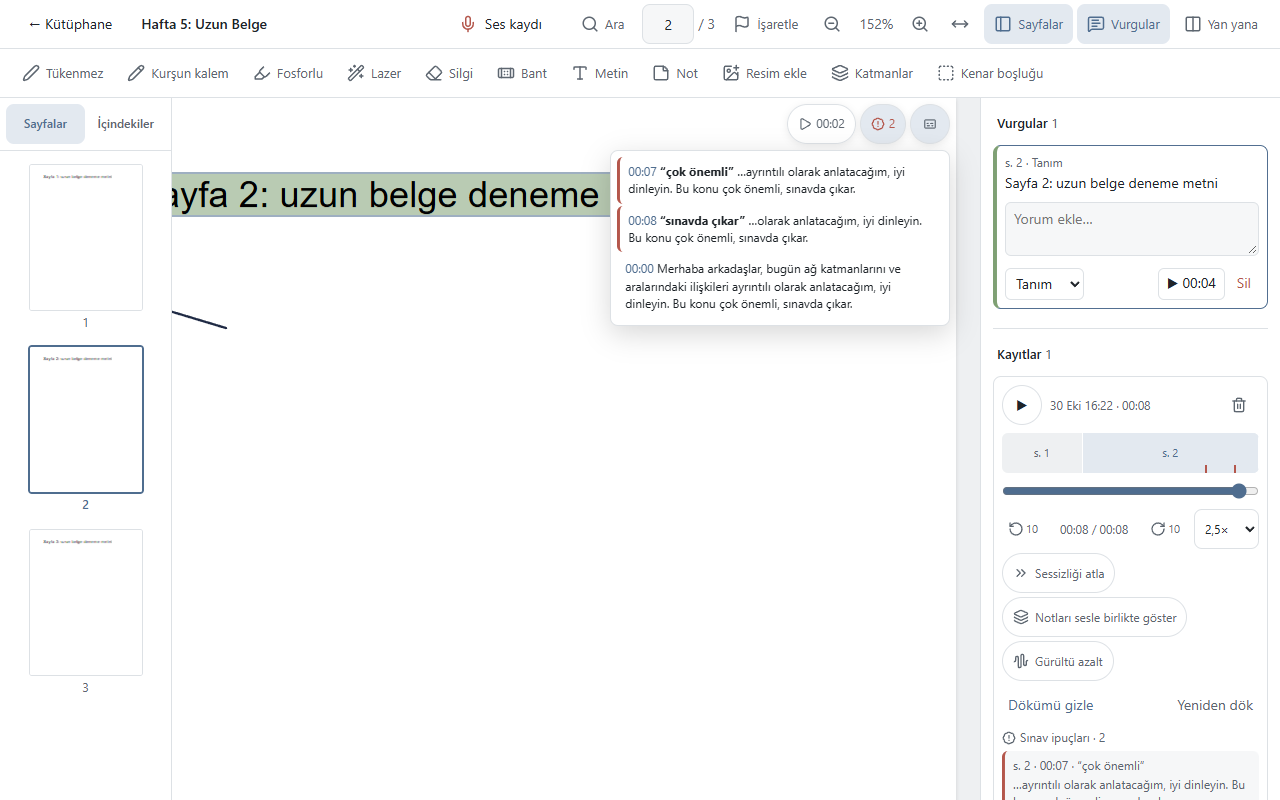
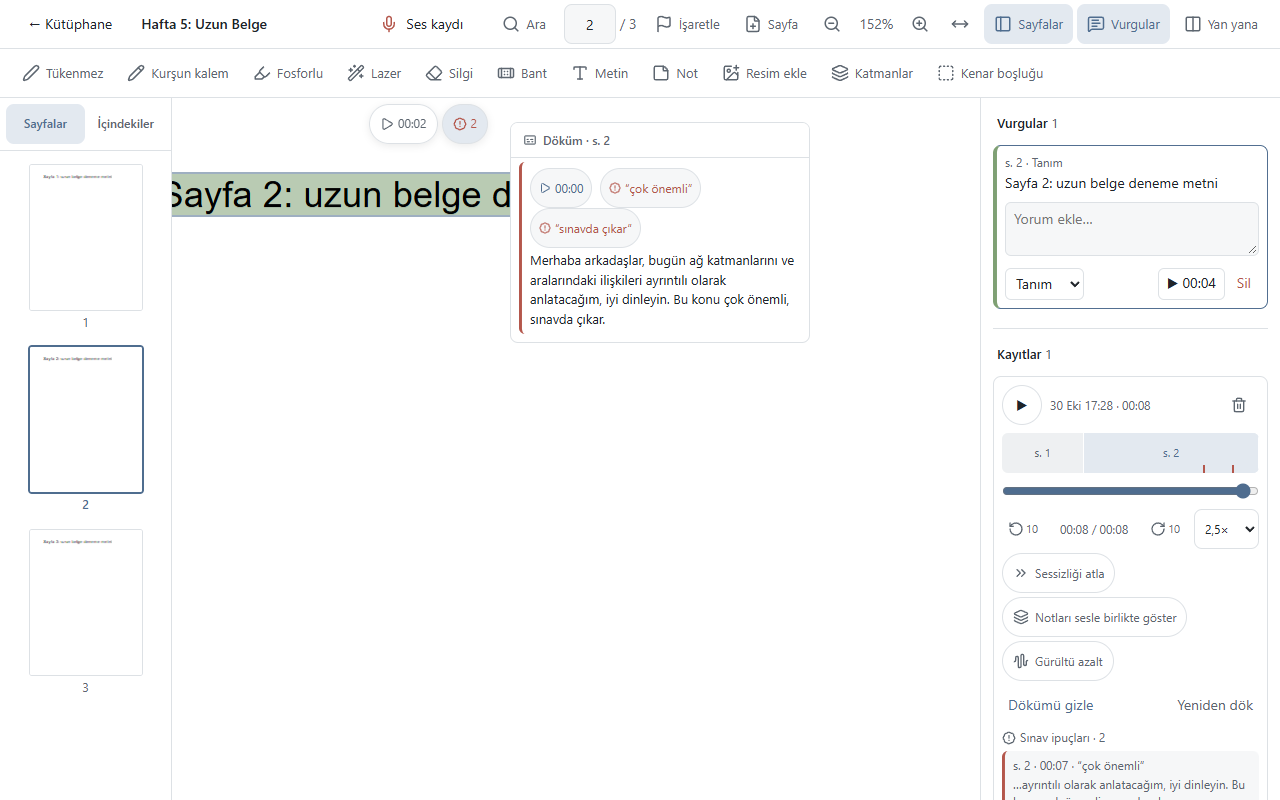
test(pages): e2e-pages (phone, tablet, desktop), e2e-audio uses the transcript block

diff --git a/src/ui/views/ReaderView.svelte b/src/ui/views/ReaderView.svelte
@@ -77,7 +77,7 @@
   const pageFlags = $derived(PageFlags.for(lib, doc.id));
   const importantCount = $derived(slots.filter((s) => pageFlags.on(s.key).includes("important")).length);
   /** Transcript beside the page when there is room for a 300 px column; otherwise under it. */
-  const sideTranscript = $derived(scrollerW >= 900);
+  const sideTranscript = $derived(scrollerW >= 760);
   const transcriptColumn = $derived(sideTranscript && reader.lecture.hasTranscripts && reader.lecture.transcriptBeside);
   /** Size in PDF points of a PDF page or a blank page. */
   const sizeOf = (key: number): { w: number; h: number } =>
@@ -354,7 +354,7 @@
         <span class="pages sr" aria-hidden="true">{currentLabel} / {sizes.length || "–"}</span>
         <input class="page-input" type="text" inputmode="numeric" enterkeyhint="go" aria-label="Sayfa numarası" value={currentLabel}
           onchange={jumpBox} onkeydown={(e) => e.key === "Enter" && e.currentTarget.blur()} onfocus={(e) => e.currentTarget.select()} />
-        <span class="total">/ {sizes.length || "–"}{#if blankCount}<span class="blanks"> + {blankCount} boş</span>{/if}</span>
+        <span class="total">/ {sizes.length || "–"}{#if blankCount}<span class="blanks">&nbsp;+ {blankCount} boş</span>{/if}</span>
       </div>
       <PageFlagMenu {lib} {doc} page={current} />
       <PageMenu {reader} page={current} label={currentLabel} oninsert={(w) => insertBlank(current, w)} onremove={() => (confirmRemove = current)} />
@@ -559,7 +559,7 @@
   .msg { color: var(--text-2); text-align: center; margin-top: 40px; }
   .blanks { font-size: 12px; }
   /* Transcript column beside each page; pages without one keep an empty column so they line up. */
-  .slot.side { display: flex; justify-content: center; align-items: flex-start; gap: 16px; }
+  .slot.side { display: flex; justify-content: safe center; align-items: flex-start; gap: 16px; }
   .slot.side :global(.page) { margin: 0 0 16px; }
   .picker {
     position: fixed; transform: translateX(-50%); z-index: 20; display: flex; gap: 2px; padding: 4px;

diff --git a/src/ui/views/PageNav.svelte b/src/ui/views/PageNav.svelte
@@ -28,9 +28,11 @@
   const openMenu = (s: PageSlot, x: number, y: number) => {
     if (oninsert) menu = { key: s.key, label: s.label, x: Math.min(x, window.innerWidth - 240), y: Math.min(y, window.innerHeight - 200) };
   };
-  function pick(fn: () => void) {
+  /** Runs a menu action for the page the menu was opened on, then closes the menu. */
+  function pick(fn: (key: number) => void) {
+    const key = menu?.key;
     menu = null;
-    fn();
+    if (key != null) fn(key);
   }
   const pageFlags = $derived(flags ? PageFlags.for(flags.lib, flags.documentId) : null);
 
@@ -160,10 +162,10 @@
 {#if menu && oninsert}
   {@const m = menu}
   <div class="thumb-menu" role="menu" aria-label="Sayfa {m.label}" style:left="{m.x}px" style:top="{m.y}px">
-    <button role="menuitem" onclick={() => pick(() => oninsert(m.key, "before"))}>Önüne boş sayfa ekle</button>
-    <button role="menuitem" onclick={() => pick(() => oninsert(m.key, "after"))}>Arkasına boş sayfa ekle</button>
+    <button role="menuitem" onclick={() => pick((k) => oninsert(k, "before"))}>Önüne boş sayfa ekle</button>
+    <button role="menuitem" onclick={() => pick((k) => oninsert(k, "after"))}>Arkasına boş sayfa ekle</button>
     {#if m.key < 0 && onremove}
-      <button role="menuitem" class="danger" onclick={() => pick(() => onremove(m.key))}>Bu boş sayfayı sil</button>
+      <button role="menuitem" class="danger" onclick={() => pick(onremove)}>Bu boş sayfayı sil</button>
     {/if}
   </div>
 {/if}
